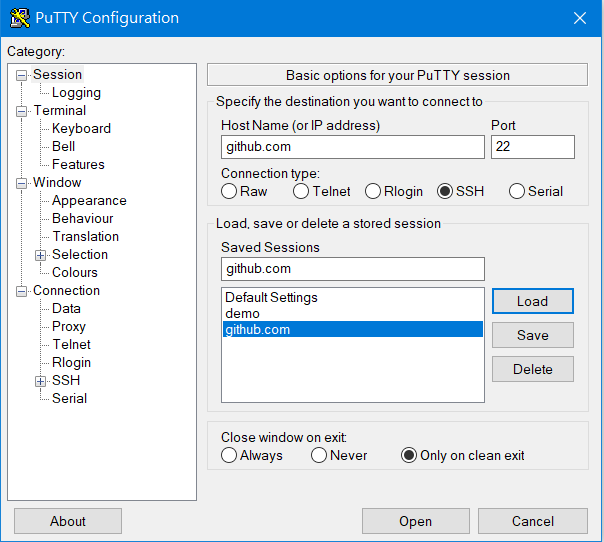
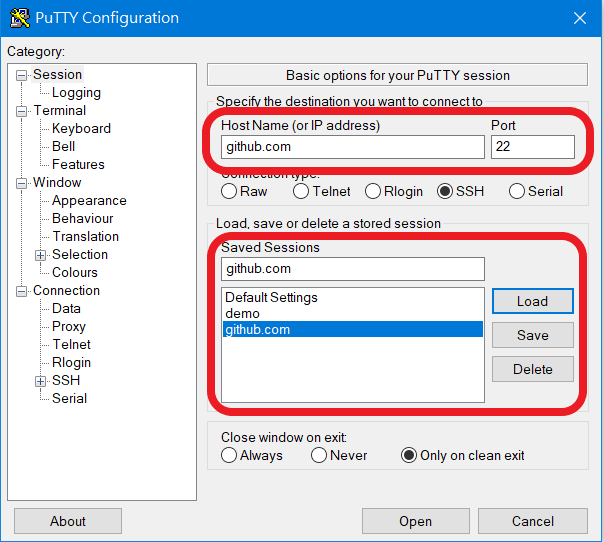
SSH筆記

Changed region(s): [[0.3278, 0.1771, 0.9834, 0.3247], [0.3278, 0.4133, 0.9834, 0.7675]]

diff --git a/content/tipuesearch_content.js b/content/tipuesearch_content.js
@@ -1,1 +1,1 @@
-var tipuesearch = {"pages": [{'title': 'About', 'text': '原班級:四設三乙 \n 修課班級:四設一甲 \n 姓名:林晉廷 \n 學號:40832244 \n 網站倉儲: https://github.com/40832244-github/cp2021_hw \n 課程網站: https://40832244-github.github.io/cp2021_hw/ \n', 'tags': '', 'url': 'About.html'}, {'title': '課程教材', 'text': '', 'tags': '', 'url': '課程教材.html'}, {'title': '齒輪run', 'text': ' 導入 FileSaver 與 filereader  \n \n \n \n \n  導入 ace  \n \n \n \n \n \n \n  請注意, 這裡使用 Javascript 將 localStorage["py_src"] 中存在近端瀏覽器的程式碼, 由使用者決定存檔名稱 \n \n \n \n  印出版次與關鍵字程式  \n \n \n \n  用來顯示程式碼的 editor 區域  \n \n  以下的表單與按鈕與前面的 Javascript doSave 函式以及 FileSaver.min.js 互相配合  \n  存擋表單開始  Filename:  .py    存擋表單結束  \n \n  執行與清除按鈕開始  \n Run   Output   清除輸出區 清除繪圖區 Reload \n  執行與清除按鈕結束  \n \n  程式執行 ouput 區  \n \n  Brython 程式執行的結果, 都以 brython_div 作為切入位置  \n \n  導入 gearUtils-0.9.js Cango 齒輪繪圖程式庫  \n \n \n \n \n \n', 'tags': '', 'url': '齒輪run.html'}, {'title': 'HW1', 'text': 'HW1-1 \n HW1-2 \n HW1-3 \n HW1-4 \n  ######################  editor1 結束 ######################  \n  以下可以開始利用 editor1 的設定編寫對應 Brython 程式  \n \n \n \n  以上為內建程式, 頁面可透過 ?src=gist_url 執行  \n  add 1 to 100 開始  \n \n \n', 'tags': '', 'url': 'HW1.html'}, {'title': '設置ssh', 'text': '1. 點選資料夾的Portablegit →bin→sh.exe \n \n 2. 輸入ssh-keygen -t rsa -b 4096 -C "40832244"(需改成自己學號) \n 按enter →輸入/y/tmp/id_rsa → 連續按按2次enter \n \n 3. 下載putty_home、GitExtensions，將start_ipv4.bat移到白窗\xa0 並新增\xa0 \n \n \n \n \n 1 \n 2 \n \n \n \n set GIT_HOME=%Disk%:\\Portablegit\\bin\\ \n set GIT_SSH=%Disk%:\\putty\\plink.exe \n \n \n \n \n \n \n 4.打開.git資料夾，把config移到白窗，新增[remote "origin"]裡的url = git@github.com:40832244/cp2021.git \n \n \n', 'tags': '', 'url': '設置ssh.html'}, {'title': 'HW2', 'text': '', 'tags': '', 'url': 'HW2.html'}, {'title': 'W12', 'text': 'w12.txt \n ROC 國旗規格 . \n PROC 國旗規格  - 可以根據此規格定義, 新增  PROC flag  按鈕. \n USA 國旗規格  - 可以根據此規格定義, 新增  USA flag  按鈕. \n  導入 brython 程式庫  \n \n \n \n \n  啟動 Brython  \n \n \n \n  導入 FileSaver 與 filereader  \n \n \n \n \n  導入 ace  \n \n \n \n \n \n \n  請注意, 這裡使用 Javascript 將 localStorage["py_src"] 中存在近端瀏覽器的程式碼, 由使用者決定存檔名稱 \n \n \n \n  導入 gearUtils-0.9.js Cango 齒輪繪圖程式庫  \n \n \n \n \n \n \n add 1 to 100 p261 ROC flag \n  ######################  editor1 開始 ######################  \n  用來顯示程式碼的 editor 區域  \n \n  以下的表單與按鈕與前面的 Javascript doSave 函式以及 FileSaver.min.js 互相配合  \n  存擋表單開始  \n Filename:  .py   \n  存擋表單結束  \n \n  執行與清除按鈕開始  \n Run   Output   清除輸出區 清除繪圖區 Reload \n  執行與清除按鈕結束  \n \n  程式執行 ouput 區  \n \n  Brython 程式執行的結果, 都以 brython_div 作為切入位置  \n  這裡的畫布 id 為 brython_div  \n \n', 'tags': '', 'url': 'W12.html'}, {'title': 'Pull Request', 'text': '1.建立倉新倉庫 \n \n 2.依上面指令在小黑窗依次輸入(若未下載GIT要先下載) \n \n \n 3.創建一個Token，並複製連結 \n \n 4.將連結貼製config(要把config拉至小白窗)，然後就完成了! \n \n', 'tags': '', 'url': 'Pull Request.html'}, {'title': 'HW3', 'text': '', 'tags': '', 'url': 'HW3.html'}]};
+var tipuesearch = {"pages": [{'title': 'About', 'text': '原班級:四設三乙 \n 修課班級:四設一甲 \n 姓名:林晉廷 \n 學號:40832244 \n 網站倉儲: https://github.com/40832244-github/cp2021_hw \n 課程網站: https://40832244-github.github.io/cp2021_hw/ \n', 'tags': '', 'url': 'About.html'}, {'title': '課程教材', 'text': '', 'tags': '', 'url': '課程教材.html'}, {'title': '齒輪run', 'text': ' 導入 FileSaver 與 filereader  \n \n \n \n \n  導入 ace  \n \n \n \n \n \n \n  請注意, 這裡使用 Javascript 將 localStorage["py_src"] 中存在近端瀏覽器的程式碼, 由使用者決定存檔名稱 \n \n \n \n  印出版次與關鍵字程式  \n \n \n \n  用來顯示程式碼的 editor 區域  \n \n  以下的表單與按鈕與前面的 Javascript doSave 函式以及 FileSaver.min.js 互相配合  \n  存擋表單開始  Filename:  .py    存擋表單結束  \n \n  執行與清除按鈕開始  \n Run   Output   清除輸出區 清除繪圖區 Reload \n  執行與清除按鈕結束  \n \n  程式執行 ouput 區  \n \n  Brython 程式執行的結果, 都以 brython_div 作為切入位置  \n \n  導入 gearUtils-0.9.js Cango 齒輪繪圖程式庫  \n \n \n \n \n \n', 'tags': '', 'url': '齒輪run.html'}, {'title': 'HW1', 'text': 'HW1-1 \n HW1-2 \n HW1-3 \n HW1-4 \n  ######################  editor1 結束 ######################  \n  以下可以開始利用 editor1 的設定編寫對應 Brython 程式  \n \n \n \n  以上為內建程式, 頁面可透過 ?src=gist_url 執行  \n  add 1 to 100 開始  \n \n \n', 'tags': '', 'url': 'HW1.html'}, {'title': '設置ssh', 'text': '1. 點選資料夾的Portablegit →bin→sh.exe \n \n \n 2. 輸入ssh-keygen -t rsa -b 4096 -C "40832244"(需改成自己學號) \n 按enter →輸入/y/tmp/id_rsa → 連續按按2次enter \n \n \n 3. 下載putty_home、GitExtensions，將start_ipv4.bat移到白窗\xa0 並新增\xa0 \n \n \n \n \n 1 \n 2 \n \n \n \n set GIT_HOME=%Disk%:\\Portablegit\\bin\\ \n set GIT_SSH=%Disk%:\\putty\\plink.exe \n \n \n \n \n \n \n 4.打開.git資料夾，把config移到白窗，新增[remote "origin"]裡的url =  git@github.com:40832244/cp2021.git \n \n \n 5.打開Putty Key Generator，將鼠標在紅框中搖晃會產生鑰匙，並先將它複製站存於筆記本 \n \xa0 \xa0完成後點選save public key(private 需多設一個密碼) 名為 id_rsa \n \n 6.打開Putty Configuration並照著圖片更改 \n \n \n \n 7.點選SSH旁邊的加號點Auth，點Browse...點選檔案 \n 選去剛剛儲存的id_rsa(記得選成所有檔案才看的到) \n \n 8.回到第6.部頁面點save，進到github網頁setting的 SSH and GPG keys 新增一把鑰匙，並到記事本內將剛剛在 Putty Key Generator產生的鑰匙貼上，並檢查句尾是學號 \n \n 點選Add SSH key \n \n 完成!!!', 'tags': '', 'url': '設置ssh.html'}, {'title': 'HW2', 'text': '', 'tags': '', 'url': 'HW2.html'}, {'title': 'W12', 'text': 'w12.txt \n ROC 國旗規格 . \n PROC 國旗規格  - 可以根據此規格定義, 新增  PROC flag  按鈕. \n USA 國旗規格  - 可以根據此規格定義, 新增  USA flag  按鈕. \n  導入 brython 程式庫  \n \n \n \n \n  啟動 Brython  \n \n \n \n  導入 FileSaver 與 filereader  \n \n \n \n \n  導入 ace  \n \n \n \n \n \n \n  請注意, 這裡使用 Javascript 將 localStorage["py_src"] 中存在近端瀏覽器的程式碼, 由使用者決定存檔名稱 \n \n \n \n  導入 gearUtils-0.9.js Cango 齒輪繪圖程式庫  \n \n \n \n \n \n \n add 1 to 100 p261 ROC flag \n  ######################  editor1 開始 ######################  \n  用來顯示程式碼的 editor 區域  \n \n  以下的表單與按鈕與前面的 Javascript doSave 函式以及 FileSaver.min.js 互相配合  \n  存擋表單開始  \n Filename:  .py   \n  存擋表單結束  \n \n  執行與清除按鈕開始  \n Run   Output   清除輸出區 清除繪圖區 Reload \n  執行與清除按鈕結束  \n \n  程式執行 ouput 區  \n \n  Brython 程式執行的結果, 都以 brython_div 作為切入位置  \n  這裡的畫布 id 為 brython_div  \n \n', 'tags': '', 'url': 'W12.html'}, {'title': 'Pull Request', 'text': '1.建立倉新倉庫 \n \n 2.依上面指令在小黑窗依次輸入(若未下載GIT要先下載) \n \n \n 3.創建一個Token，並複製連結 \n \n 4.將連結貼製config(要把config拉至小白窗)，然後就完成了! \n \n', 'tags': '', 'url': 'Pull Request.html'}, {'title': 'HW3', 'text': '', 'tags': '', 'url': 'HW3.html'}]};

diff --git a/config/content_backup.htm b/config/content_backup.htm
@@ -277,96 +277,15 @@ function doSave(storage_id, filename){
 <div id="brython_div"></div>
 <h2>Pull Request</h2>
 <p>1.建立倉新倉庫</p>
-<p><img alt="" height="219" src="/images/pull11.png" width="506"/></p>
+<p><img alt="" height="262.8" src="/images/pull11.png" width="607"/></p>
 <p>2.依上面指令在小黑窗依次輸入(若未下載GIT要先下載)</p>
 <p></p>
-<p><img alt="" height="197" src="/images/pull22.png" width="506"/></p>
+<p><img alt="" height="236" src="/images/pull22.png" width="607"/></p>
 <p>3.創建一個Token，並複製連結</p>
 <p><img alt="" height="251" src="/images/pull33.png" width="711"/></p>
 <p>4.將連結貼製config(要把config拉至小白窗)，然後就完成了!</p>
 <p></p>
-<p><img alt="" height="341" src="/images/pull44.png" width="556"/></p>
-<p><!-- ######################  editor1 結束 ###################### --></p>
-<!-- 以下可以開始利用 editor1 的設定編寫對應 Brython 程式 -->
-<p>
-<script type="text/python3">
-from browser import document as doc
-import ace
-
-# 清除畫布
-def clear_bd1(ev):
-    # 注意這裡清除的畫布 id 為 brython_div
-    bd = doc["brython_div"]
-    bd.clear()
-Ace1 = ace.Editor(editor_id="kw_editor1", console_id="kw_console1", container_id="kw__container1", storage_id="kw_py_src1" )
-# 從 gist 取出程式碼後, 放入 editor 作為 default 程式
-def run1():
-    # 利用 get 取下 src 變數值
-    try:
-        url = doc.query["src"]
-    except:
-        url = "https://gist.githubusercontent.com/mdecourse/0229a8a017091476a79700b8a190f185/raw/c3a6deaf717f8f2739a4b1392a5ab10936e9693a/from_1_add_to_10_1.py"
-    prog = open(url).read()
-
-    # 將程式載入編輯區
-    Ace1.editor.setValue(prog)
-    Ace1.editor.scrollToRow(0)
-    Ace1.editor.gotoLine(0)
-    # 直接執行程式
-    #ns = {'__name__':'__main__'}
-    #exec(prog, ns)
-    # 按下 run 按鈕
-    Ace1.run()
-
-# 執行程式, 顯示輸出結果與清除輸出結果及對應按鈕綁定
-doc['kw_run1'].bind('click', Ace1.run)
-doc['kw_show_console1'].bind('click', Ace1.show_console)
-doc['kw_clear_console1'].bind('click', Ace1.clear_console)
-doc['clear_bd1'].bind('click', clear_bd1)
-# 呼叫函式執行
-run1()
-</script>
-</p>
-<!-- 以上為內建程式, 頁面可透過 ?src=gist_url 執行 -->
-<p><!-- add 1 to 100 開始 -->
-<script type="text/python3">
-from browser import document as doc
-import ace
-
-# 清除畫布
-def clear_bd1(ev):
-    bd = doc["brython_div1"]
-    bd.clear()
-
-# 利用 ace 中的 Editor 建立 Ace 物件, 其中的輸入變數分別對應到頁面中的編輯區物件
-Ace2 = ace.Editor(editor_id="kw_editor1", console_id="kw_console1", container_id="kw__container1", storage_id="kw_py_src1" )
-
-class button2:
-    def __init__(self, url):
-        self.url = url
-
-    # 記得加入 event 輸入變數
-    def do(self,ev):
-        Ace2.editor.setValue(open(self.url).read())
-        Ace2.editor.scrollToRow(0)
-        Ace2.editor.gotoLine(0)
-        Ace2.run()
-
-add1to100_url = "https://gist.githubusercontent.com/mdecourse/0229a8a017091476a79700b8a190f185/raw/c48e37714f055c3a0027cbfef59e442a6ef659b9/from_1_add_to_100_1.py"
-add1to100 = button2(add1to100_url)
-doc["add1to100"].bind('click', add1to100.do)
-################################# p261 start 
-p261_url = "https://gist.githubusercontent.com/mdecourse/2f56974a40da7a218dbaef376a5b4ca4/raw/980606effcd29635307d6474718cd4a7ef016747/p261.py"
-p261 = button2(p261_url)
-doc["p261"].bind('click', p261.do)
-################################## p261 end
-################################## rocflag start
-rocflag_url = "https://gist.githubusercontent.com/mdecourse/2f56974a40da7a218dbaef376a5b4ca4/raw/0e2ca81d5c2539c4b6c86071c8cf9de0b1251b9c/roc_flag.py"
-rocflag = button2(rocflag_url)
-doc["rocflag"].bind("click", rocflag.do)
-################################## rocflag end
-</script>
-</p><h1>HW3</h1>
+<p><img alt="" height="341" src="/images/pull44.png" width="556"/></p><h1>HW3</h1>
 <!-- <script>
   MathJax = {
     tex: {inlineMath: [['$', '$'], ['\(', '\)']]}

diff --git a/content/設置ssh.html b/content/設置ssh.html
@@ -141,9 +141,11 @@ img.add_border {
         </header>
     <div id="tipue_search_content">HW1 << <a href='HW1.html'>Previous</a> <a href='HW2.html'>Next</a> >> HW2<br /><h1>設置ssh</h1>
 <p>1.<span>點選資料夾的Portablegit</span><span>→bin→sh.exe</span></p>
+<p><span></span></p>
 <p><span><img alt="" height="250" src="./../images/SSH1.PNG" width="500"/></span></p>
 <p><span>2.</span>輸入ssh-keygen -t rsa -b 4096 -C "40832244"(需改成自己學號)</p>
 <h4>按enter<span>→輸入/y/tmp/id_rsa</span><span>→</span><span>連續按按2次enter</span></h4>
+<p><span></span></p>
 <p><span><img alt="" height="250" src="./../images/SSH2.PNG" width="500"/></span></p>
 <p><span>3.</span>下載putty_home、GitExtensions，將start_ipv4.bat移到白窗  並新增 </p>
 <table border="0" cellpadding="0" cellspacing="0">
@@ -163,10 +165,24 @@ img.add_border {
 </tbody>
 </table>
 <p><img alt="" height="500" src="./../images/SSH.3.png" width="250"/></p>
-<p>4.打開.git資料夾，把config移到白窗，新增[remote "origin"]裡的url = git@github.com:40832244/cp2021.git</p>
+<p>4.打開.git資料夾，把config移到白窗，新增[remote "origin"]裡的url = <a href="mailto:git@github.com:40832244/cp2021.git">git@github.com:40832244/cp2021.git</a></p>
 <p></p>
+<p><img alt="" height="103" src="./../images/SSH5.PNG" width="567"/></p>
+<p>5.打開Putty Key Generator，將鼠標在紅框中搖晃會產生鑰匙，並先將它複製站存於筆記本</p>
+<p>   完成後點選save public key(private 需多設一個密碼) 名為 id_rsa</p>
+<p><img alt="" height="288" src="./../images/SSH444.png" width="317"/></p>
+<p>6.打開Putty Configuration並照著圖片更改</p>
 <p></p>
-<br />HW1 << <a href='HW1.html'>Previous</a> <a href='HW2.html'>Next</a> >> HW2</div>
+<p><img alt="" height="373" src="./../images/SSH7.PNG" width="416"/></p>
+<p><img alt="" height="373" src="./../images/SSH88.PNG" width="415"/></p>
+<p>7.點選SSH旁邊的加號點Auth，點Browse...點選檔案<img alt="" height="371" src="./../images/SSH99.png" width="413"/></p>
+<p>選去剛剛儲存的id_rsa(記得選成所有檔案才看的到)</p>
+<p><img alt="" height="349" src="./../images/SSH66.png" width="558"/></p>
+<p>8.回到第6.部頁面點save，進到github網頁setting的<a class="js-selected-navigation-item menu-item" data-selected-links="ssh_certificate_authorities /settings/keys" href="https://github.com/settings/keys">SSH and GPG keys</a>新增一把鑰匙，並到記事本內將剛剛在<span>Putty Key Generator產生的鑰匙貼上，並檢查句尾是學號</span></p>
+<p><span><img alt="" height="360" src="./../images/SSH11.PNG" width="559"/></span></p>
+<p><span>點選Add SSH key</span></p>
+<p><span><img alt="" height="307" src="./../images/SSH10.PNG" width="544"/></span></p>
+<p><span>完成!!!</span></p><br />HW1 << <a href='HW1.html'>Previous</a> <a href='HW2.html'>Next</a> >> HW2</div>
         
     <!-- footer -->
       <div class="container">

diff --git a/config/content.htm b/config/content.htm
@@ -184,9 +184,11 @@ doc["rocflag"].bind("click", rocflag.do)
 </p>
 <h2>設置ssh</h2>
 <p>1.<span>點選資料夾的Portablegit</span><span>→bin→sh.exe</span></p>
+<p><span></span></p>
 <p><span><img alt="" height="250" src="/images/SSH1.PNG" width="500"/></span></p>
 <p><span>2.</span>輸入ssh-keygen -t rsa -b 4096 -C "40832244"(需改成自己學號)</p>
 <h4>按enter<span>→輸入/y/tmp/id_rsa</span><span>→</span><span>連續按按2次enter</span></h4>
+<p><span></span></p>
 <p><span><img alt="" height="250" src="/images/SSH2.PNG" width="500"/></span></p>
 <p><span>3.</span>下載putty_home、GitExtensions，將start_ipv4.bat移到白窗  並新增 </p>
 <table border="0" cellpadding="0" cellspacing="0">
@@ -206,10 +208,24 @@ doc["rocflag"].bind("click", rocflag.do)
 </tbody>
 </table>
 <p><img alt="" height="500" src="/images/SSH.3.png" width="250"/></p>
-<p>4.打開.git資料夾，把config移到白窗，新增[remote "origin"]裡的url = git@github.com:40832244/cp2021.git</p>
+<p>4.打開.git資料夾，把config移到白窗，新增[remote "origin"]裡的url = <a href="mailto:git@github.com:40832244/cp2021.git">git@github.com:40832244/cp2021.git</a></p>
 <p></p>
+<p><img alt="" height="103" src="/images/SSH5.PNG" width="567"/></p>
+<p>5.打開Putty Key Generator，將鼠標在紅框中搖晃會產生鑰匙，並先將它複製站存於筆記本</p>
+<p>   完成後點選save public key(private 需多設一個密碼) 名為 id_rsa</p>
+<p><img alt="" height="288" src="/images/SSH444.png" width="317"/></p>
+<p>6.打開Putty Configuration並照著圖片更改</p>
 <p></p>
-<h1>HW2</h1>
+<p><img alt="" height="373" src="/images/SSH7.PNG" width="416"/></p>
+<p><img alt="" height="373" src="/images/SSH88.PNG" width="415"/></p>
+<p>7.點選SSH旁邊的加號點Auth，點Browse...點選檔案<img alt="" height="371" src="/images/SSH99.png" width="413"/></p>
+<p>選去剛剛儲存的id_rsa(記得選成所有檔案才看的到)</p>
+<p><img alt="" height="349" src="/images/SSH66.png" width="558"/></p>
+<p>8.回到第6.部頁面點save，進到github網頁setting的<a class="js-selected-navigation-item menu-item" data-selected-links="ssh_certificate_authorities /settings/keys" href="https://github.com/settings/keys">SSH and GPG keys</a>新增一把鑰匙，並到記事本內將剛剛在<span>Putty Key Generator產生的鑰匙貼上，並檢查句尾是學號</span></p>
+<p><span><img alt="" height="360" src="/images/SSH11.PNG" width="559"/></span></p>
+<p><span>點選Add SSH key</span></p>
+<p><span><img alt="" height="307" src="/images/SSH10.PNG" width="544"/></span></p>
+<p><span>完成!!!</span></p><h1>HW2</h1>
 <h2>W12</h2>
 <p><a href="https://mde.tw/w11_1b/downloads/w12.txt">w12.txt</a></p>
 <p><a href="https://en.wikipedia.org/wiki/Flag_of_the_Republic_of_China#Construction_details">ROC 國旗規格</a>.</p>
